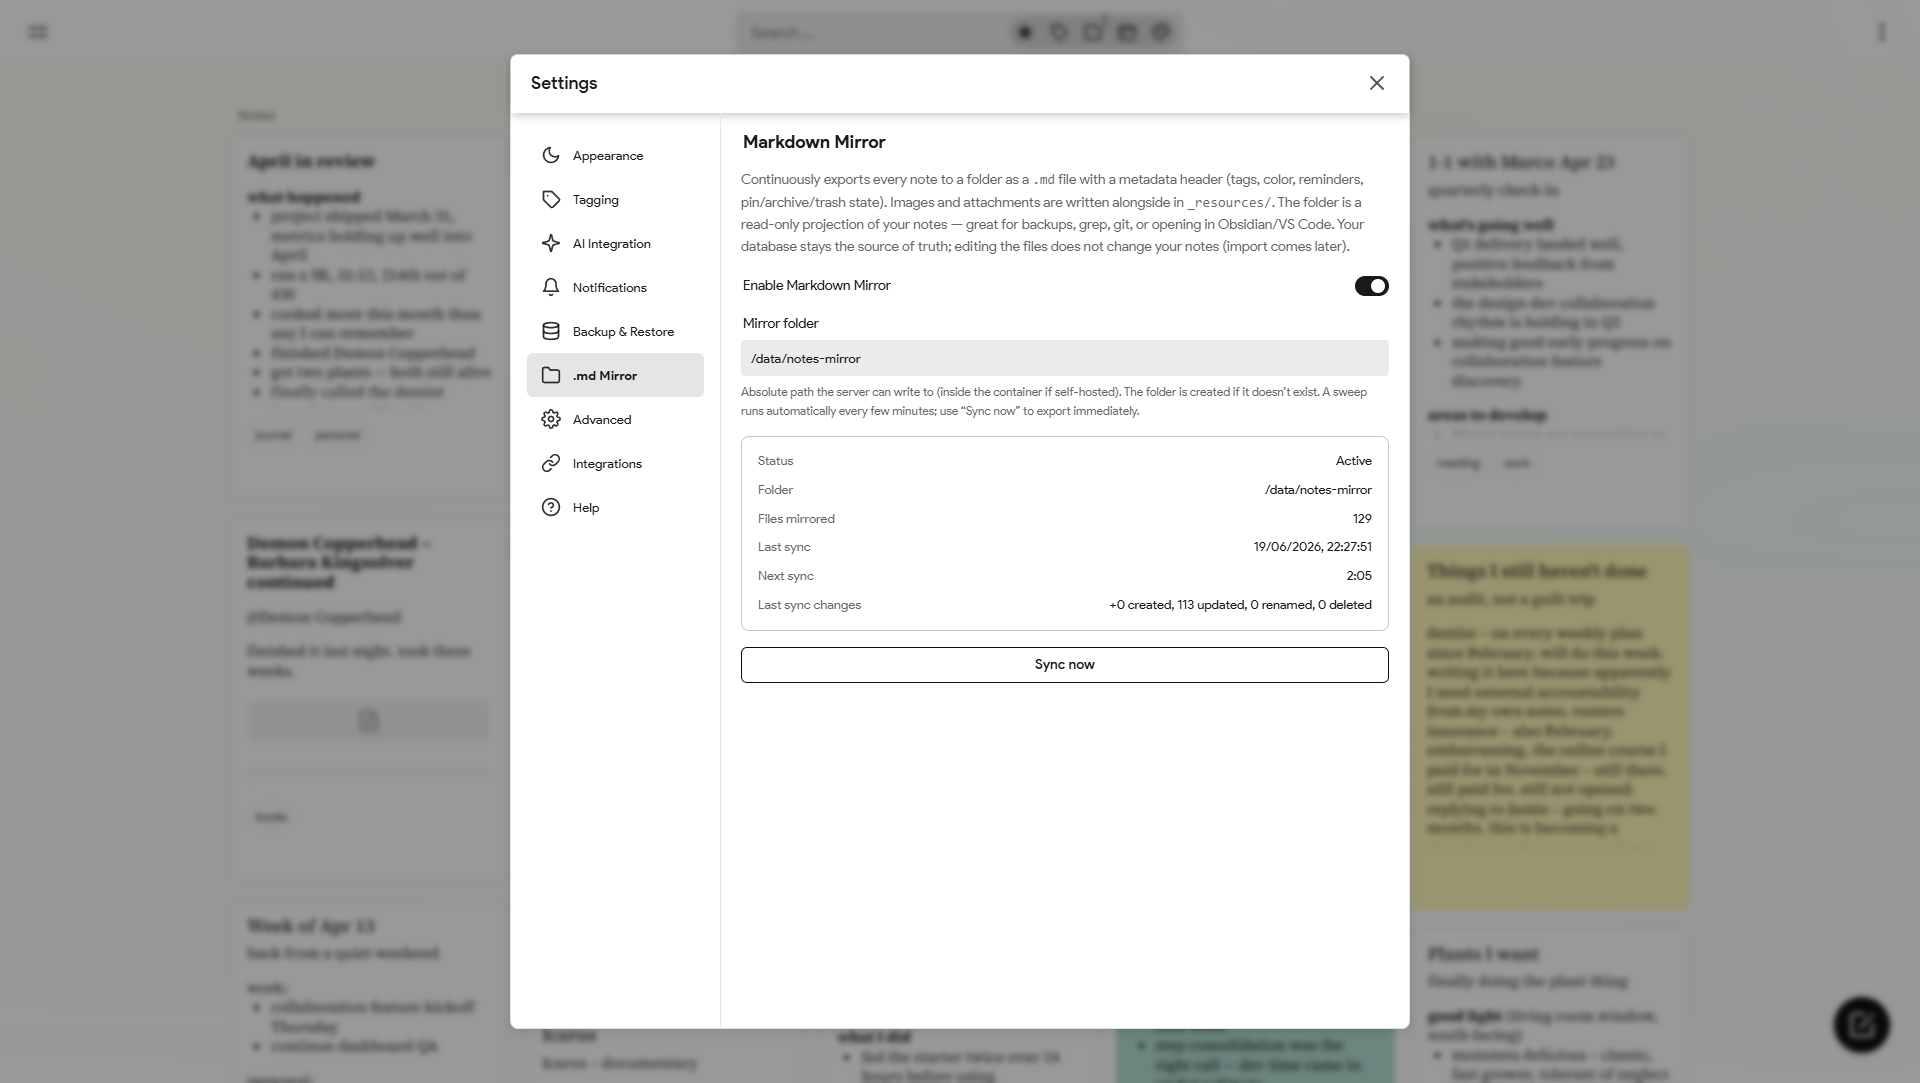
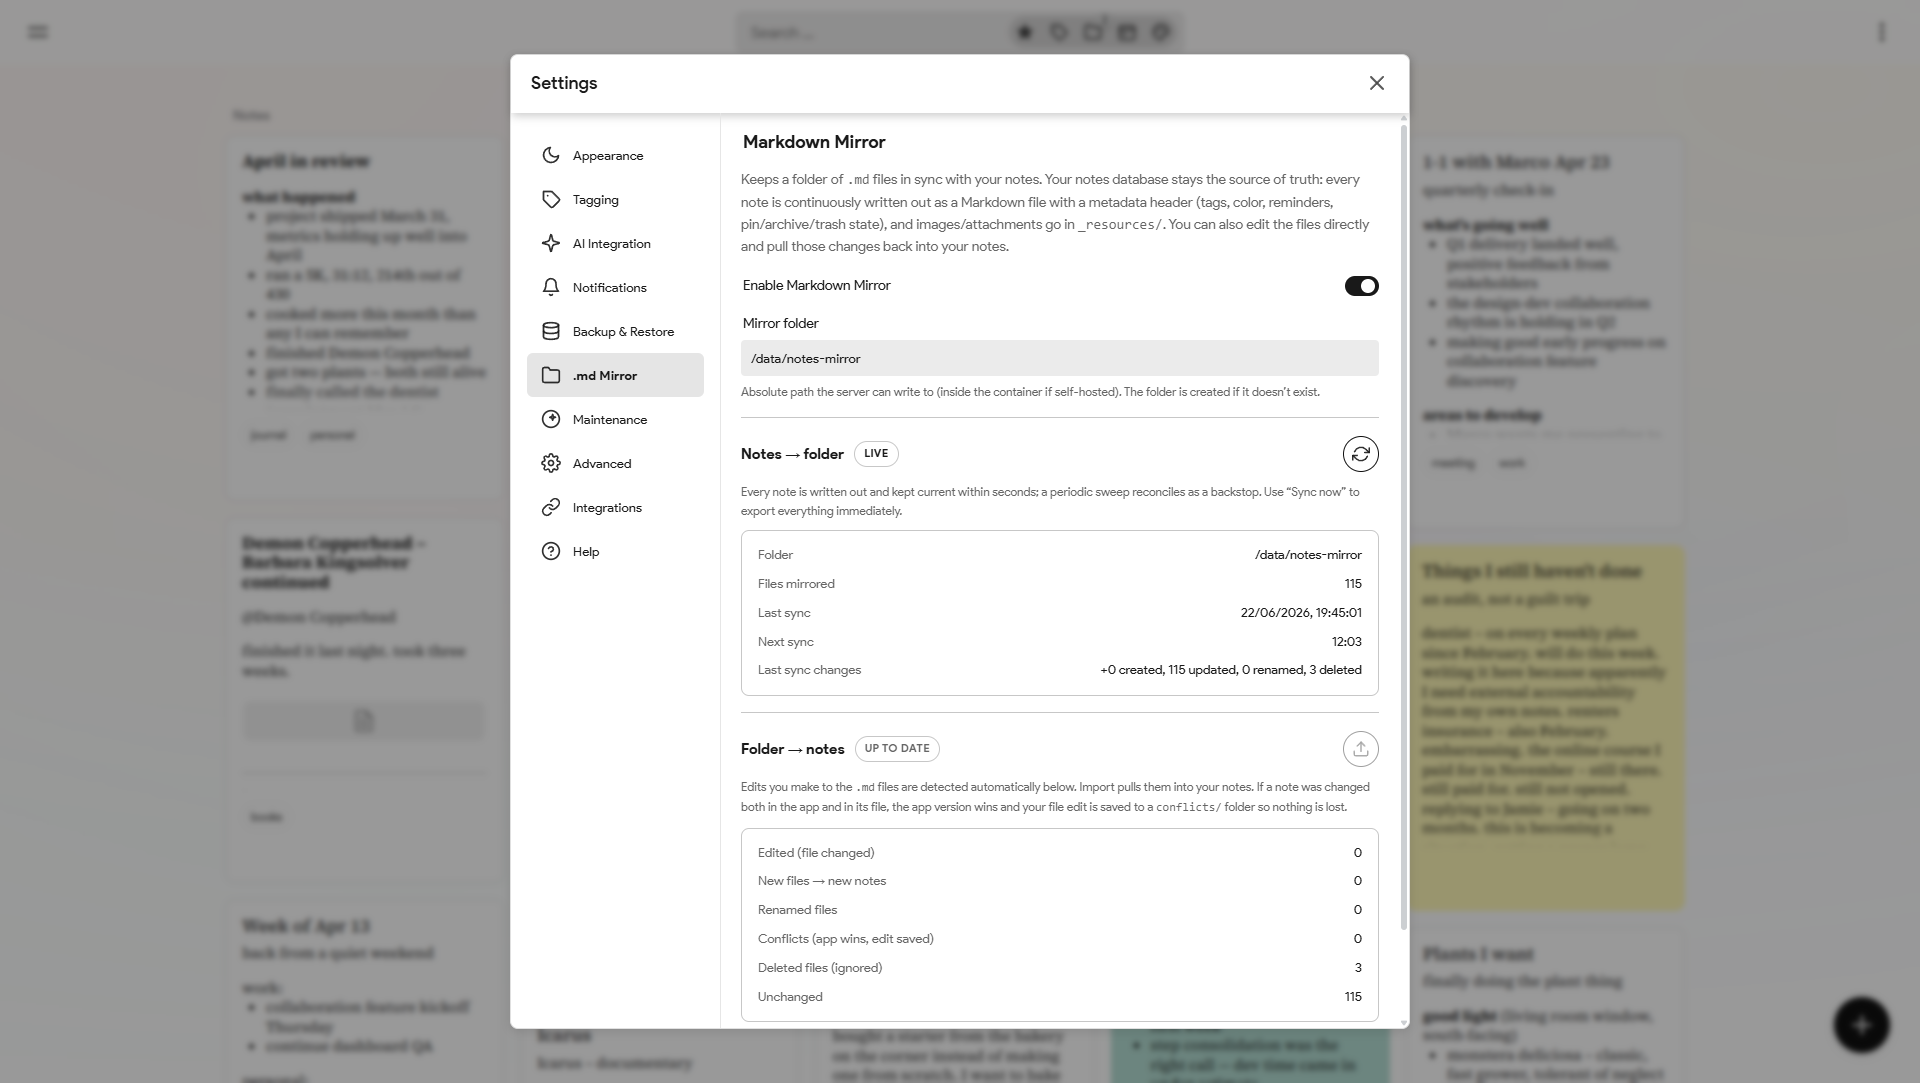
Update settings screenshots and add AI settings to README gallery

diff --git a/README.md b/README.md
@@ -42,7 +42,7 @@ Built with React, Node.js, PostgreSQL, and Socket.io.
   </tr>
   <tr>
     <td><img src="docs/screenshots/tagging.png"/></td>
-    <td></td>
+    <td><img src="docs/screenshots/settings-ai.png"/></td>
   </tr>
 </table>
 
